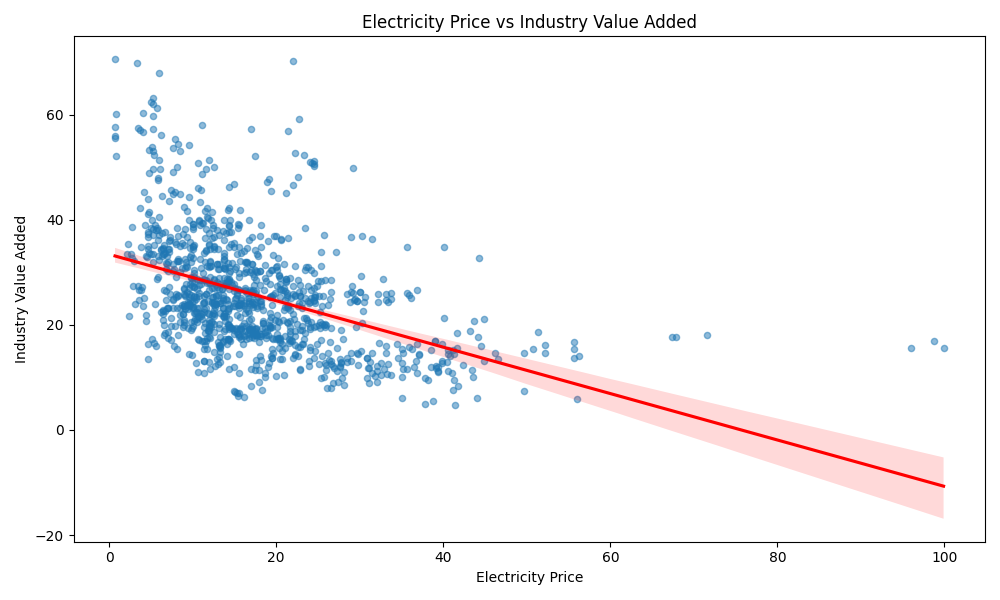
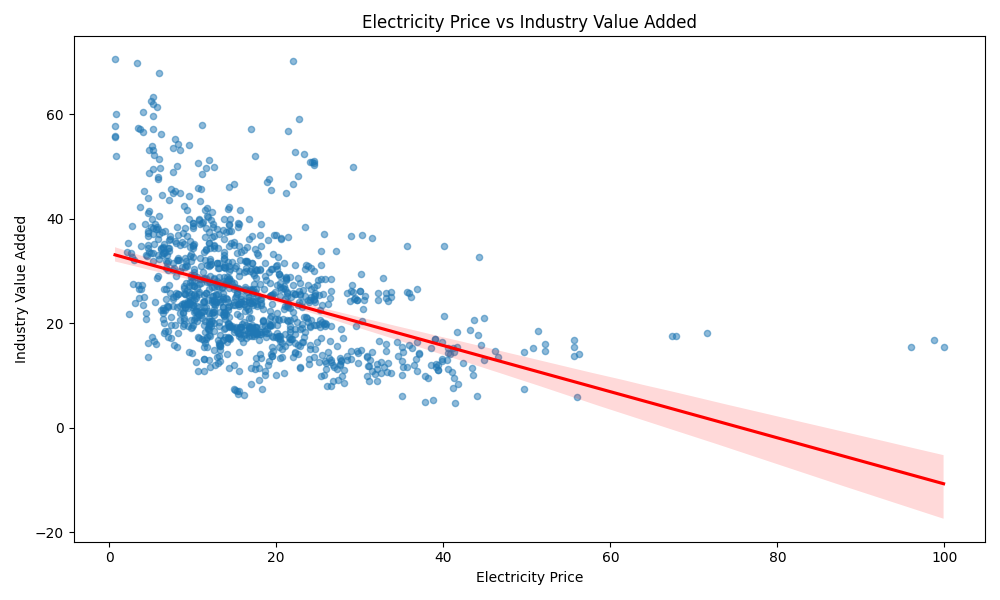
a few small tweaks

Changed region(s): [[0.124, 0.27, 0.961, 0.81], [0.031, 0.87, 0.062, 0.9], [0.031, 0.36, 0.062, 0.39]]

diff --git a/Source (main)/Analysis.py b/Source (main)/Analysis.py
@@ -267,6 +267,13 @@ def run_section_3(df: pd.DataFrame):
 def run_section_3(df: pd.DataFrame):
     import seaborn as sns
     import matplotlib.pyplot as plt
+    import os
+
+    path = "Outputs/figures/electricity_vs_industry.png"
+
+    # If the plot already exists, do nothing
+    if os.path.exists(path):
+        return
 
     plt.figure(figsize=(10,6))
     sns.regplot(
@@ -280,8 +287,9 @@ def run_section_3(df: pd.DataFrame):
     plt.xlabel("Electricity Price")
     plt.ylabel("Industry Value Added")
     plt.tight_layout()
-    plt.savefig("Outputs/figures/electricity_vs_industry.png")
+    plt.savefig(path)
     plt.close()
+
     
 print("Plots saved to Outputs/figures/")
 
